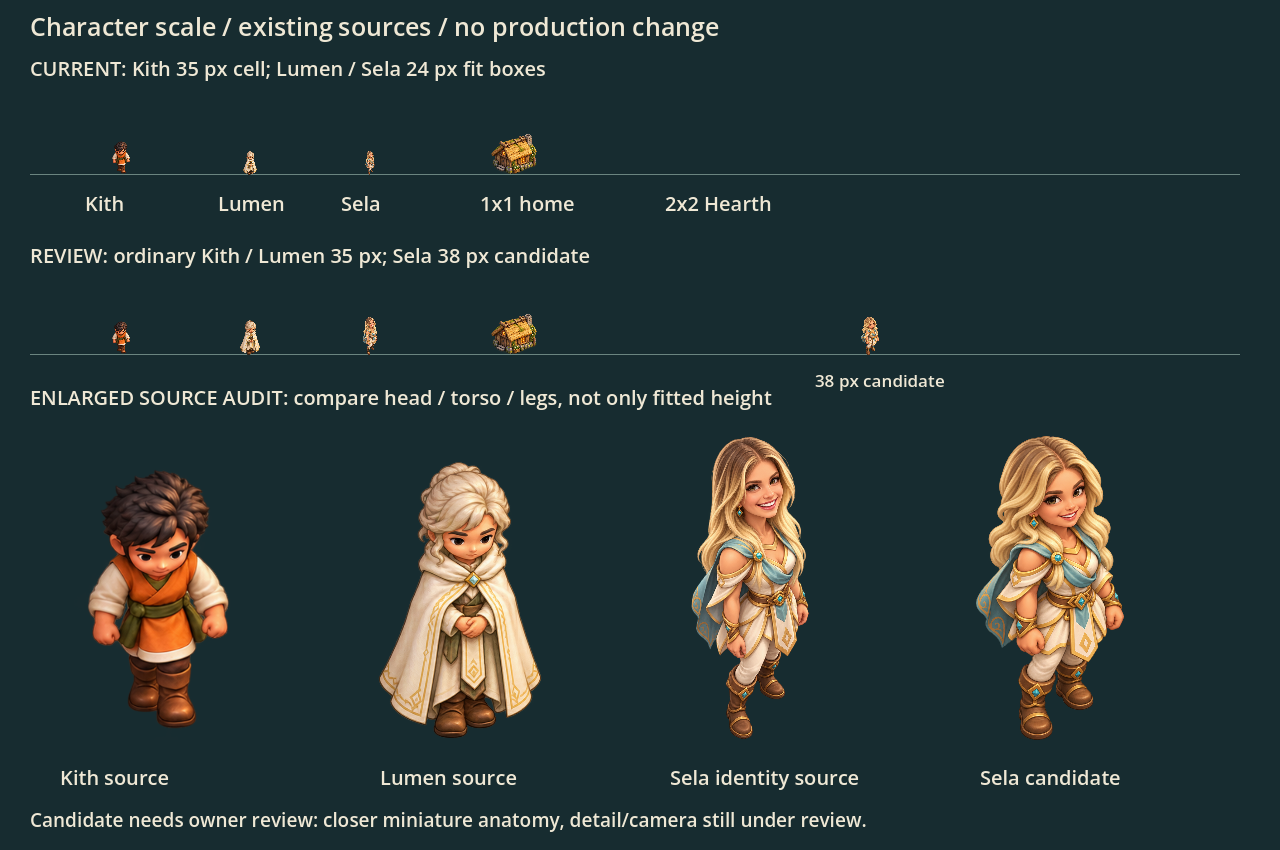
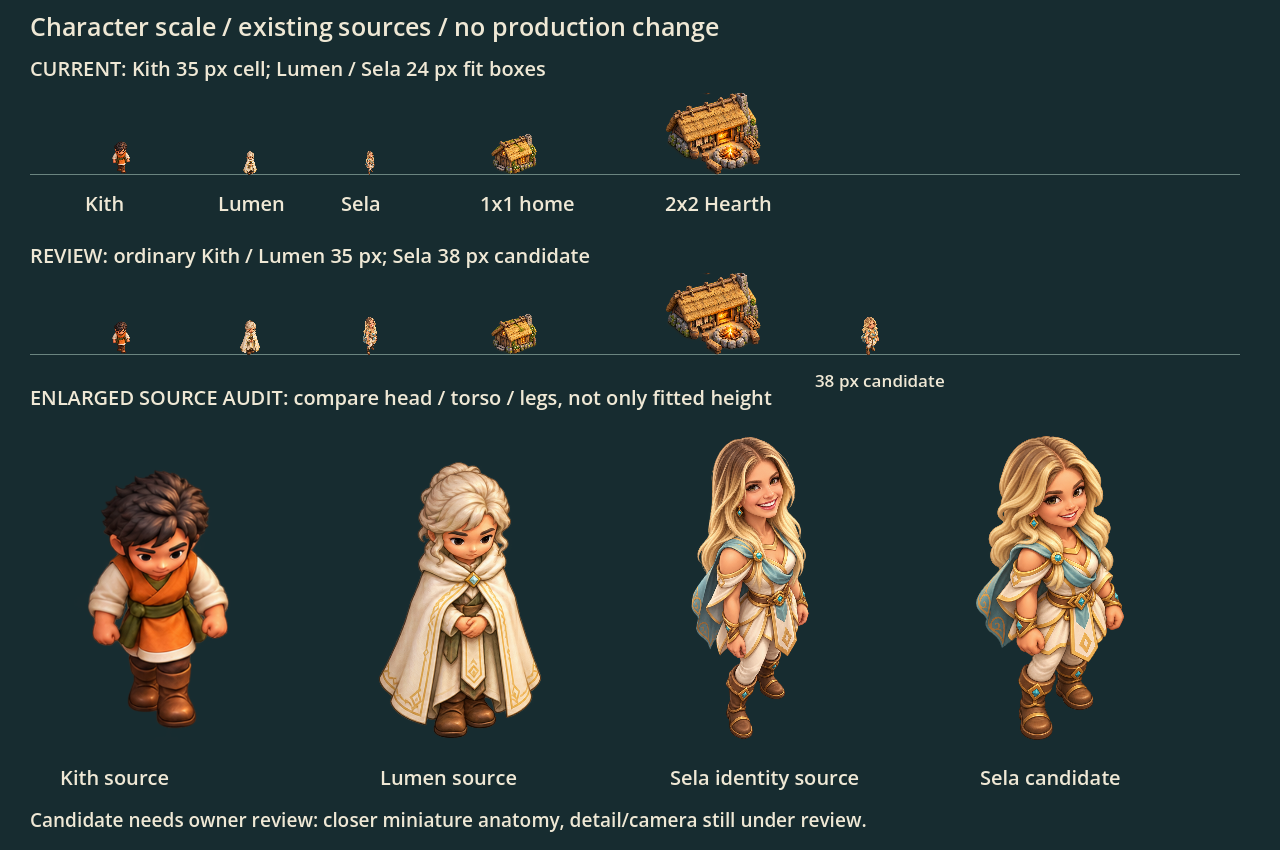
Record character review decision and Hearth comparison

Changed region(s): [[0.5, 0.3059, 0.5938, 0.4282], [0.5, 0.0918, 0.5938, 0.2141]]

diff --git a/docs/art/requests.md b/docs/art/requests.md
@@ -112,3 +112,6 @@ The project owner wants Codex to paint the ground and the water too, at the same
 - [ ] **The new southern land (Ironfall).** Drier, darker earth near the coal seams and iron hills, with a gentle edge to the meadow. Optional, carries on from the Ironfall stage 1 slot above.
 - [ ] **Bloom ground (stage 2).** The four Bloom patch tiles and the Spore and Root overlays are listed in the stage 2 slots above; paint the ground under them with the terrain so the patches sit in it.
 - [ ] **Acceptance.** Put a sprite and a terrain tile side by side at the default zoom (48 px): the same outline darkness, highlight direction (up and left) and saturation. Capture it in the engine as the earlier passes did, and note any shader changes here.
+
+### Shared character standard — PR #94
+Spec: `docs/design-system/mockups/character-standard.md`; native current/proposed source audit and one unapproved Sela candidate: `docs/art/character-standard/`. The owner-approved common map target is 35 px for ordinary Kith/Lumen, heroes slightly taller; exact Sela height and anatomical landmarks require visual review. Claude reads the same spec before wiring. #93 remains held. Terrain/water and Teardown are queued next; no new production character art is approved by this source audit.

diff --git a/docs/design-system/decision-log.md b/docs/design-system/decision-log.md
@@ -785,3 +785,9 @@ Stage 2 of 2: the nine gated techs now do something, the gate is gone, and the e
 - Codex gets numbered template sheets, a short spec (light from the upper left, small palettes, neighbours share mid-tones) and `tests/tools/terrain_preview.gd`, which renders the real ground on a generated map. Everything is in `docs/art/terrain-kit/`.
 - Map generation needs no change for the art. The generator's height and wetness fields can become two shader mask channels when Codex asks for them (no save or map change). Details on page 22.
 
+
+## 2026-10-08: Shared character reference and review gate (PR #94)
+- Codex recorded one shared map/title/cutscene reference hierarchy, following the owner's consistency request and Claude's confirmed workflow.
+- Ordinary Kith/Lumen target 35 px; Sela is marginally taller. Exact 38 px and normalized anatomy remain proposals pending visual review.
+- Existing source comparison and one separate Sela candidate expose proportion/detail differences; no game sprite or renderer changed. #93 remains held.
+- Accepted 1586×992 cutscene originals retain prompts and provenance; future character art and wiring must reference the shared spec.
